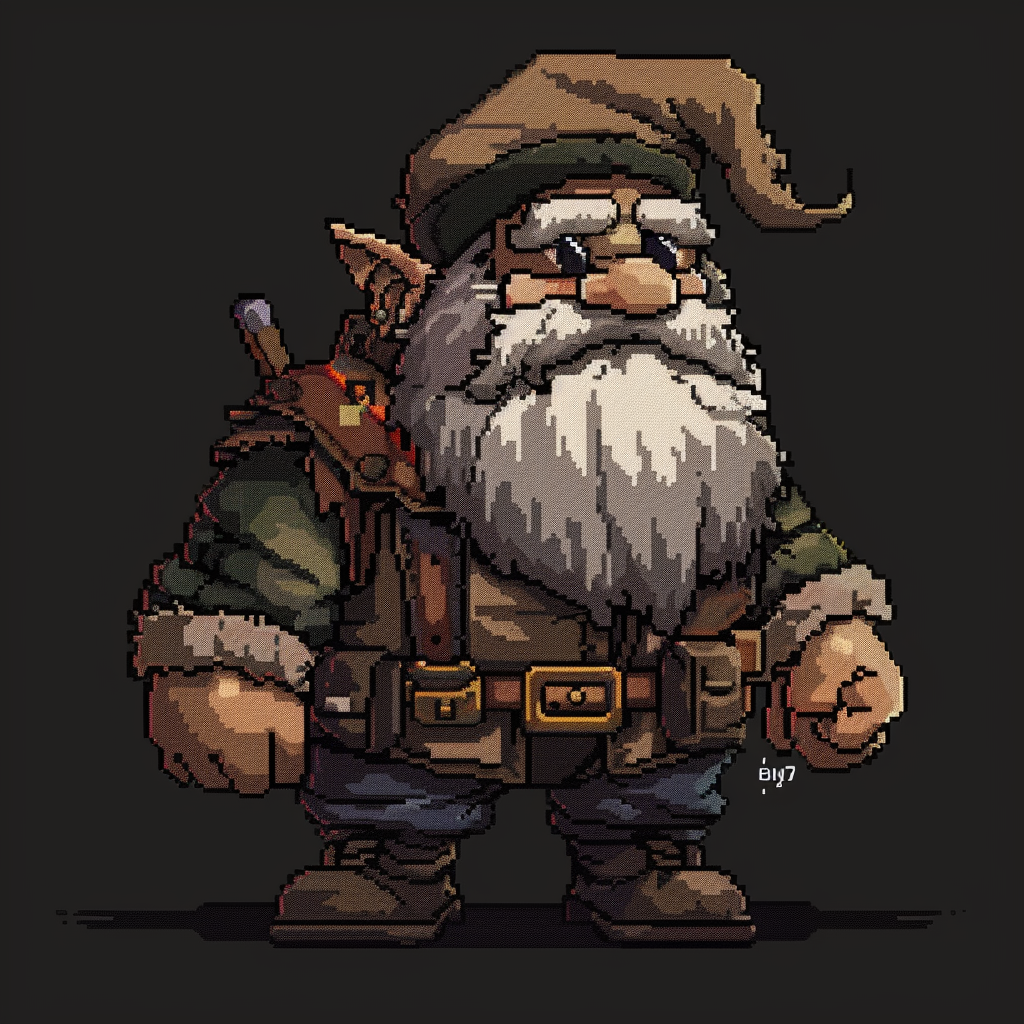
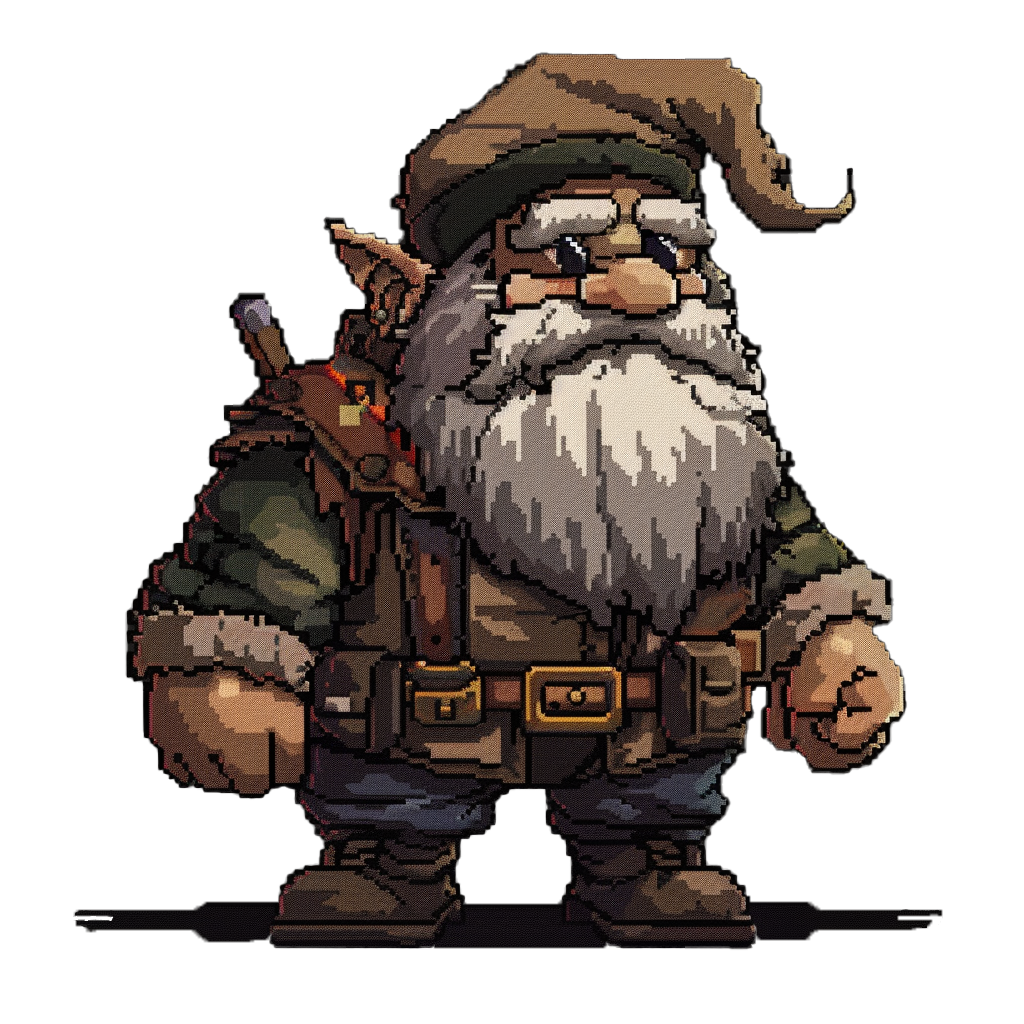
added console component; hardcoded values for activity stats in Overview, added dwarf image to overview

diff --git a/frontend/src/components/overview/Overview.jsx b/frontend/src/components/overview/Overview.jsx
@@ -1,0 +1,123 @@
+import React from 'react';
+import dwarfImage from '/src/assets/images/dwarf.png';
+import appStore from "@/store/appStore.js";
+import Console from "@/components/overview/Console.jsx";
+
+export default function Overview() {
+    const { selectedCharacter } = appStore();
+
+    // Assuming we have a level in the character data. If not, you'll need to fetch or calculate it.
+    const characterLevel = 1;
+    const currentXP = 75; // Example value
+    const nextLevelXP = 100;
+
+    const progress = (currentXP / nextLevelXP) * 100;
+    const strokeDasharray = `${progress} ${100 - progress}`;
+
+    const consoleLines = [
+        { event_type: 'Info', value: 'Application started' },
+        { event_type: 'Warning', value: 'Low memory' },
+        { event_type: 'Error', value: 'Failed to connect to database' },
+        { event_type: 'Info', value: 'User logged in' },
+        { event_type: 'Info', value: 'User logged in' },
+        { event_type: 'Info', value: 'User logged in' },
+        { event_type: 'Info', value: 'User logged in' },
+        { event_type: 'Info', value: 'User logged in' },
+        { event_type: 'Info', value: 'User logged in User' },
+        { event_type: 'Info', value: 'User logged in' },
+        { event_type: 'Info', value: 'User logged in' },
+        { event_type: 'Info', value: 'User logged in' },
+        { event_type: 'Info', value: 'User logged in' },
+        { event_type: 'Info', value: 'User logged in' },
+        { event_type: 'Info', value: 'User logged in' },
+        { event_type: 'Info', value: 'User logged in' },
+        { event_type: 'Info', value: 'User logged in' },
+    ];
+
+    return (
+        <div className="flex flex-col space-y-4 h-full font-menlo">
+            <div className="w-full flex items-top justify-center h-min">
+                <div className="w-1/3 relative rounded-xl h-[40vh]">
+                    <img
+                        src={dwarfImage}
+                        alt="Character"
+                        className="w-full h-full object-contain rounded-xl"
+                    />
+                    <div className="absolute bottom-2 right-2 w-12 h-12">
+                        <svg viewBox="0 0 36 36" className="w-full h-full">
+                            <path
+                                d="M18 2.0845
+                                    a 15.9155 15.9155 0 0 1 0 31.831
+                                    a 15.9155 15.9155 0 0 1 0 -31.831"
+                                fill="none"
+                                stroke="#444"
+                                strokeWidth="2"
+                            />
+                            <path
+                                d="M18 2.0845
+                                    a 15.9155 15.9155 0 0 1 0 31.831
+                                    a 15.9155 15.9155 0 0 1 0 -31.831"
+                                fill="none"
+                                stroke="#4CAF50"
+                                strokeWidth="2"
+                                strokeDasharray={strokeDasharray}
+                                strokeLinecap="round"
+                            />
+                            <text x="18" y="23" className="fill-white text-sm" textAnchor="middle">
+                                {characterLevel}
+                            </text>
+                        </svg>
+                    </div>
+                </div>
+                <div className="w-[40%] p-4 text-white">
+                    <div className="mb-4">
+                        <p className="font-light text-xs">Active Quest</p>
+                        <p className="text-xl tracking-wide leading-tight">Fortify the Frontier this is a long title</p>
+                    </div>
+
+                    <Console lines={consoleLines}/>
+                </div>
+                <div className="w-[27%]">
+                    {/*  Leave empty for now  */}
+                </div>
+            </div>
+            <div className="flex items-center justify-evenly px-4 w-full h-16 border-[1px] border-white/50 rounded-md text-white">
+                <div className="flex flex-col text-light_green">
+                    <p className="text-xs">Left Clicks</p>
+                    <p className="text-2xl">36k</p>
+                </div>
+                <div className="flex flex-col text-light_green">
+                    <p className="text-xs">Right Clicks</p>
+                    <p className="text-2xl">36k</p>
+                </div>
+                <div className="flex flex-col text-light_green">
+                    <p className="text-xs">Keypresses</p>
+                    <p className="text-2xl">36k</p>
+                </div>
+                <div className="flex flex-col text-light_green">
+                    <p className="text-xs">Mouse Movement</p>
+                    <div className="flex items-end space-x-1">
+                        <p className="text-2xl">109k</p>
+                        <span className="text-xs mb-1">feet</span>
+                    </div>
+
+                </div>
+                <div className="flex flex-col text-light_green">
+                    <p className="text-xs">Scroll Time</p>
+                    <div className="flex items-end space-x-1">
+                        <p className="text-2xl">21</p>
+                        <span className="text-xs mb-1">hours</span>
+                    </div>
+                </div>
+            </div>
+            <div className="pt-4 w-full flex-grow">
+                <div className="h-full w-full bg-gray-900 border border-white/50 rounded-md relative">
+                  <span className="absolute -top-6 left-0 bg-white/75 px-2 text-xs text-black">
+                    Last 24 hours
+                  </span>
+                </div>
+            </div>
+
+        </div>
+    )
+}

diff --git a/frontend/src/components/overview/Console.jsx b/frontend/src/components/overview/Console.jsx
@@ -1,0 +1,77 @@
+import React, { useEffect, useRef, useState } from 'react';
+
+const Console = ({ lines }) => {
+    const consoleRef = useRef(null);
+    const [typedText, setTypedText] = useState('');
+    const [currentIndex, setCurrentIndex] = useState(0);
+
+    useEffect(() => {
+        if (consoleRef.current) {
+            consoleRef.current.scrollTop = consoleRef.current.scrollHeight;
+        }
+    }, [lines]);
+
+    useEffect(() => {
+        if (lines.length > 0 && currentIndex < lines[lines.length - 1].value.length) {
+            const timer = setTimeout(() => {
+                setTypedText(lines[lines.length - 1].value.slice(0, currentIndex + 1));
+                setCurrentIndex(currentIndex + 1);
+            }, 50);
+
+            return () => clearTimeout(timer);
+        }
+    }, [lines, currentIndex]);
+
+    const renderLine = (line, index) => {
+        const isLastLine = index === lines.length - 1;
+        return (
+            <div key={index} className="font-menlo text-xs">
+        <span className={`mr-2 ${getEventTypeColor(line.event_type)}`}>
+          {line.event_type}:
+        </span>
+                <span>
+          {isLastLine ? typedText : line.value}
+                    {isLastLine && <Cursor />}
+        </span>
+            </div>
+        );
+    };
+
+    const getEventTypeColor = (eventType) => {
+        switch (eventType.toLowerCase()) {
+            case 'error':
+                return 'text-red';
+            case 'warning':
+                return 'text-yellow';
+            case 'info':
+                return 'text-blue';
+            default:
+                return 'text-light_grey';
+        }
+    };
+
+    return (
+        <div
+            ref={consoleRef}
+            className="text-white p-4 rounded-lg h-48 overflow-y-auto"
+        >
+            {lines.map(renderLine)}
+        </div>
+    );
+};
+
+const Cursor = () => {
+    const [visible, setVisible] = useState(true);
+
+    useEffect(() => {
+        const interval = setInterval(() => {
+            setVisible((v) => !v);
+        }, 500);
+
+        return () => clearInterval(interval);
+    }, []);
+
+    return <span className={`${visible ? 'opacity-100' : 'opacity-0'}`}>|</span>;
+};
+
+export default Console;

diff --git a/frontend/src/components/navigation/DropdownMenu.jsx b/frontend/src/components/navigation/DropdownMenu.jsx
@@ -1,5 +1,5 @@
 const DropdownMenu = ({ children, className = "" }) => (
-    <div className={`absolute left-0 mt-2 w-full bg-black border-[1px] border-white/50 shadow-lg rounded-md overflow-hidden opacity-0 group-hover:opacity-100 transition-opacity duration-300 ${className}`}>
+    <div className={`z-20 absolute left-0 mt-2 w-full bg-black border-[1px] border-white/50 shadow-lg rounded-md overflow-hidden opacity-0 group-hover:opacity-100 transition-opacity duration-300 ${className}`}>
         <div className="py-2 font-menlo">
             {children}
         </div>

diff --git a/frontend/src/App.jsx b/frontend/src/App.jsx
@@ -5,11 +5,8 @@ import CharacterStats from "@/components/stats/CharacterStats.jsx";
 import NewQuest from "@/components/quest/NewQuest.jsx";
 import QuestSummary from "@/components/quest/QuestSummary.jsx";
 import CreateCharacter from "@/components/character/CreateCharacter.jsx";
+import Overview from "@/components/overview/Overview.jsx"
 import appStore from "@/store/appStore.js";
-
-function Overview() {
-    return null;
-}
 
 function App() {
     const { currentPage } = appStore();
